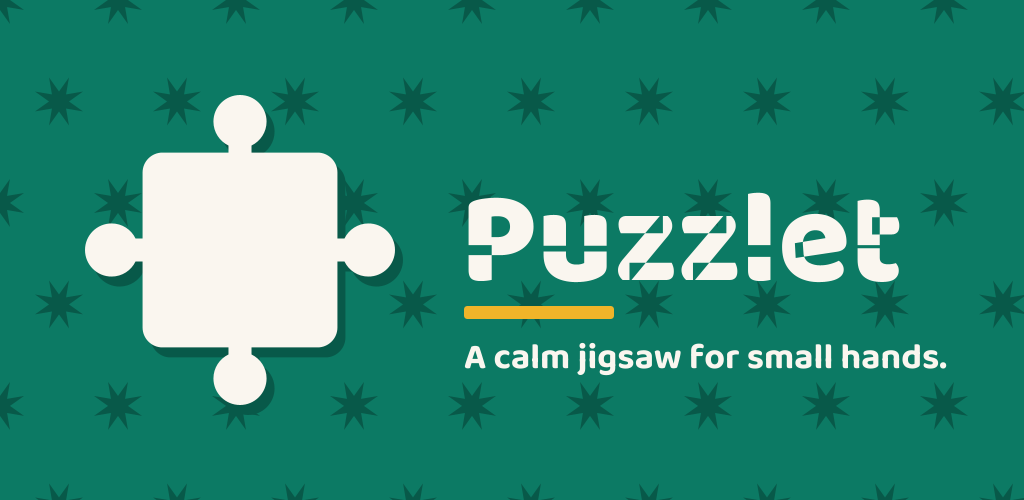
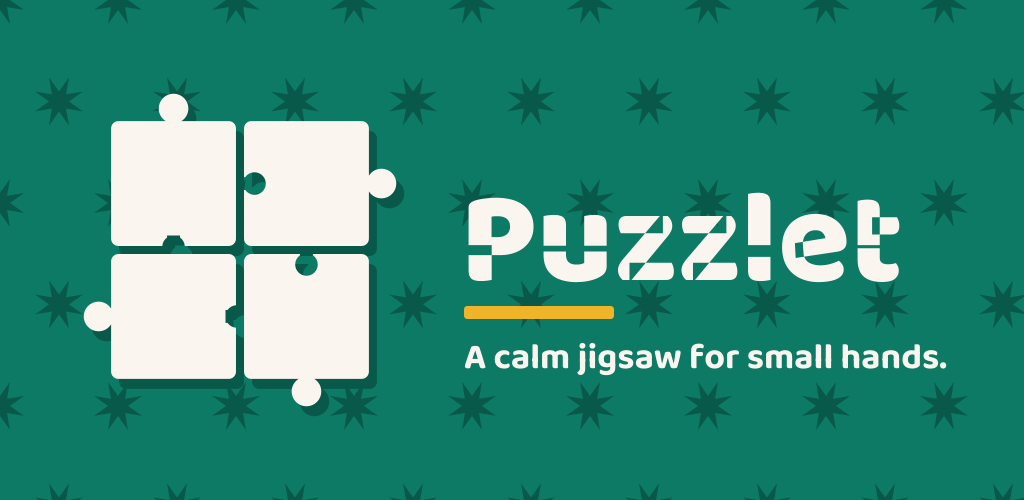
The mark: four joined pieces with seams, heads outward, cuts in the middle
The owner's refined design: the square is a 2x2 of real jigsaw pieces in
a pinwheel, each with its head reaching outward and its cut opening on
the inner seam, so four notches sit in the middle, waiting for the next
pieces. Thin seams show the square is four. Probes in MakeIconsTest
verify heads, cuts, seams and bodies through the piece transform;
checkIcons pins the regenerated set.

Changed region(s): [[0.0625, 0.18, 0.4062, 0.84]]

diff --git a/tools/src/main/kotlin/io/github/muntasimulhaque/puzzlet/tools/MakeIcons.kt b/tools/src/main/kotlin/io/github/muntasimulhaque/puzzlet/tools/MakeIcons.kt
@@ -54,35 +54,101 @@ object IconDesign {
 }
 
 /**
- * The friendship piece, in a unit box centred at (0.5, 0.5): a rounded
- * square body with four identical necked knobs, one per side, reaching
- * outward. The piece spans 0.70 of the box, knob tip to knob tip.
+ * The friendship square (the owner's design): a 2 x 2 of four jigsaw
+ * pieces, joined. Each piece is a real piece, oriented in a pinwheel: its
+ * head reaches outward (top, right, bottom, left: the four arms) and its
+ * cut opens on the inner seam, so four notches sit in the middle of the
+ * square, waiting for the next pieces to snap in. Thin seams show that the
+ * square is four pieces; the outer silhouette stays the calm square with
+ * four arms. The piece spans 0.962 of the unit box.
  */
-fun brandPiece(): Area {
-    val body = Area(RoundRectangle2D.Double(0.28, 0.28, 0.44, 0.44, 0.09, 0.09))
-    // Each knob: a neck crossing the body edge plus a round head beyond it.
-    // Top (bump up), right, bottom, left: the same four arms.
-    body.add(Area(Rectangle2D.Double(0.474, 0.18, 0.052, 0.12)))
-    body.add(Area(Ellipse2D.Double(0.44, 0.15, 0.12, 0.12)))
-    body.add(Area(Rectangle2D.Double(0.70, 0.474, 0.12, 0.052)))
-    body.add(Area(Ellipse2D.Double(0.73, 0.44, 0.12, 0.12)))
-    body.add(Area(Rectangle2D.Double(0.474, 0.70, 0.052, 0.12)))
-    body.add(Area(Ellipse2D.Double(0.44, 0.73, 0.12, 0.12)))
-    body.add(Area(Rectangle2D.Double(0.18, 0.474, 0.12, 0.052)))
-    body.add(Area(Ellipse2D.Double(0.15, 0.44, 0.12, 0.12)))
+enum class Side { TOP, RIGHT, BOTTOM, LEFT }
+
+internal const val BRAND_SPAN = 0.962
+
+private fun addKnob(body: Area, mx: Double, my: Double, side: Side) {
+    when (side) {
+        Side.TOP -> {
+            body.add(Area(Rectangle2D.Double(mx - 0.02, my - 0.055, 0.04, 0.065)))
+            body.add(Area(Ellipse2D.Double(mx - 0.046, my - 0.085, 0.092, 0.092)))
+        }
+        Side.BOTTOM -> {
+            body.add(Area(Rectangle2D.Double(mx - 0.02, my - 0.01, 0.04, 0.065)))
+            body.add(Area(Ellipse2D.Double(mx - 0.046, my - 0.007, 0.092, 0.092)))
+        }
+        Side.LEFT -> {
+            body.add(Area(Rectangle2D.Double(mx - 0.055, my - 0.02, 0.065, 0.04)))
+            body.add(Area(Ellipse2D.Double(mx - 0.085, my - 0.046, 0.092, 0.092)))
+        }
+        Side.RIGHT -> {
+            body.add(Area(Rectangle2D.Double(mx - 0.01, my - 0.02, 0.065, 0.04)))
+            body.add(Area(Ellipse2D.Double(mx - 0.007, my - 0.046, 0.092, 0.092)))
+        }
+    }
+}
+
+private fun addCut(body: Area, mx: Double, my: Double, side: Side) {
+    // The blank: a necked cut opening on the edge and biting inward.
+    when (side) {
+        Side.TOP -> {
+            body.subtract(Area(Rectangle2D.Double(mx - 0.02, my - 0.0275, 0.04, 0.06)))
+            body.subtract(Area(Ellipse2D.Double(mx - 0.035, my - 0.0025, 0.07, 0.07)))
+        }
+        Side.BOTTOM -> {
+            body.subtract(Area(Rectangle2D.Double(mx - 0.02, my - 0.0325, 0.04, 0.06)))
+            body.subtract(Area(Ellipse2D.Double(mx - 0.035, my - 0.0325, 0.07, 0.07)))
+        }
+        Side.LEFT -> {
+            body.subtract(Area(Rectangle2D.Double(mx - 0.0275, my - 0.02, 0.06, 0.04)))
+            body.subtract(Area(Ellipse2D.Double(mx - 0.0025, my - 0.035, 0.07, 0.07)))
+        }
+        Side.RIGHT -> {
+            body.subtract(Area(Rectangle2D.Double(mx - 0.0325, my - 0.02, 0.06, 0.04)))
+            body.subtract(Area(Ellipse2D.Double(mx - 0.0325, my - 0.035, 0.07, 0.07)))
+        }
+    }
+}
+
+/**
+ * One joined piece: a quadrant of the square with rounded corners, a knob
+ * reaching outward on [knob] and a cut biting inward on [notch].
+ */
+fun brandQuadrant(x0: Double, y0: Double, x1: Double, y1: Double, knob: Side, notch: Side): Area {
+    val body = Area(RoundRectangle2D.Double(x0, y0, x1 - x0, y1 - y0, 0.045, 0.045))
+    val knobMid = if (knob == Side.TOP || knob == Side.BOTTOM) (x0 + x1) / 2 else (y0 + y1) / 2
+    val notchMid = if (notch == Side.TOP || notch == Side.BOTTOM) (x0 + x1) / 2 else (y0 + y1) / 2
+    val edge = if (knob == Side.TOP || knob == Side.BOTTOM) (if (knob == Side.TOP) y0 else y1) else (if (knob == Side.LEFT) x0 else x1)
+    when (knob) {
+        Side.TOP -> addKnob(body, knobMid, y0, Side.TOP)
+        Side.BOTTOM -> addKnob(body, knobMid, y1, Side.BOTTOM)
+        Side.LEFT -> addKnob(body, x0, knobMid, Side.LEFT)
+        Side.RIGHT -> addKnob(body, x1, knobMid, Side.RIGHT)
+    }
+    when (notch) {
+        Side.TOP -> addCut(body, notchMid, y0, Side.TOP)
+        Side.BOTTOM -> addCut(body, notchMid, y1, Side.BOTTOM)
+        Side.LEFT -> addCut(body, x0, notchMid, Side.LEFT)
+        Side.RIGHT -> addCut(body, x1, notchMid, Side.RIGHT)
+    }
     return body
 }
 
-internal const val BRAND_SPAN = 0.70
-
-/** Draw the piece scaled to [span], centred at (cx, cy), in [argb]. */
+/**
+ * The whole mark, drawn into [g]: four joined pieces in a pinwheel. The
+ * piece spans 0.962 of the unit box; [span] is that span on the target.
+ */
 fun paintBrandPiece(g: Graphics2D, cx: Double, cy: Double, span: Double, argb: Int) {
-    val piece = brandPiece()
     val scale = span / BRAND_SPAN
-    g.transform(AffineTransform(scale, 0.0, 0.0, scale, cx - 0.5 * scale, cy - 0.5 * scale))
+    val ox = cx - 0.5 * scale
+    val oy = cy - 0.5 * scale
+    g.transform(AffineTransform(scale, 0.0, 0.0, scale, ox, oy))
     g.color = Color(argb, true)
-    g.fill(piece)
-    g.transform(AffineTransform(1.0 / scale, 0.0, 0.0, 1.0 / scale, -(cx - 0.5 * scale), -(cy - 0.5 * scale)))
+    // Pinwheel: head outward, cut inward, a quarter turn per piece.
+    g.fill(brandQuadrant(0.10, 0.10, 0.4875, 0.4875, Side.TOP, Side.BOTTOM))
+    g.fill(brandQuadrant(0.5125, 0.10, 0.90, 0.4875, Side.RIGHT, Side.LEFT))
+    g.fill(brandQuadrant(0.5125, 0.5125, 0.90, 0.90, Side.BOTTOM, Side.TOP))
+    g.fill(brandQuadrant(0.10, 0.5125, 0.4875, 0.90, Side.LEFT, Side.RIGHT))
+    g.transform(AffineTransform(1.0 / scale, 0.0, 0.0, 1.0 / scale, -ox, -oy))
 }
 
 /** The legacy tile: teal rounded square, paper piece, for API 24-25 launchers. */

diff --git a/tools/src/test/kotlin/io/github/muntasimulhaque/puzzlet/tools/MakeIconsTest.kt b/tools/src/test/kotlin/io/github/muntasimulhaque/puzzlet/tools/MakeIconsTest.kt
@@ -30,47 +30,64 @@ class MakeIconsTest {
     }
 
     @Test
-    fun `legacy tile is teal with the paper piece at its heart`() {
+    fun `legacy tile is teal with four joined pieces on it`() {
         val icon = legacyIcon(192)
         // Outside the rounded corners: fully transparent.
         assertEquals(0, icon.getRGB(8, 8) ushr 24)
-        // Tile, above the piece: teal.
-        assertEquals(IconDesign.TEAL, icon.getRGB(96, 12))
-        // Body centre: paper.
-        assertEquals(IconDesign.PAPER, icon.getRGB(96, 96))
-        // The top arm's head: paper, where the design says it must be.
+        // Map piece-unit coordinates the way paintBrandPiece does: the piece
+        // occupies the centre span, not the whole canvas.
         val span = 192 * IconDesign.LEGACY_SPAN_FRACTION
-        val headDy = (0.29 * span / BRAND_SPAN).toInt()
-        assertEquals(IconDesign.PAPER, icon.getRGB(96, 96 - headDy))
+        val scale = span / BRAND_SPAN
+        val ox = 96.0 - scale / 2.0
+        fun P(u: Double, v: Double): Pair<Int, Int> =
+            Pair((ox + u * scale).toInt(), (ox + v * scale).toInt())
+        // The seam cross in the middle: the tile shows through.
+        val (sx, sy) = P(0.5, 0.5)
+        assertEquals(IconDesign.TEAL, icon.getRGB(sx, sy))
+        // A quadrant body: paper.
+        val (bx, by) = P(0.29375, 0.29375)
+        assertEquals(IconDesign.PAPER, icon.getRGB(bx, by))
+        // A knob head reaching outward: paper.
+        val (kx, ky) = P(0.29375, 0.065)
+        assertEquals(IconDesign.PAPER, icon.getRGB(kx, ky))
+        // A cut in the middle: the tile shows through the blank.
+        val (cx2, cy2) = P(0.29375, 0.470)
+        assertEquals(IconDesign.TEAL, icon.getRGB(cx2, cy2))
     }
 
     @Test
-    fun `the four arms reach the same distance in every direction`() {
-        // The owner's design is perfectly symmetric: probe all four knob
-        // heads and require the same colour, and require the diagonals
-        // between the arms to stay empty.
+    fun `the four cuts sit in the middle, one per piece, pinwheel-symmetric`() {
+        // Map piece-unit coordinates onto a rendered layer and probe all
+        // four cuts and all four heads: heads paper, cuts tile.
         val size = 432
         val image = BufferedImage(size, size, BufferedImage.TYPE_INT_ARGB)
         val g = image.createGraphics()
+        g.color = java.awt.Color(IconDesign.TEAL, true)
+        g.fillRect(0, 0, size, size)
         paintBrandPiece(g, size / 2.0, size / 2.0, size * 0.80, IconDesign.PAPER)
         g.dispose()
 
-        val c = size / 2.0
-        val head = 0.29 / BRAND_SPAN * (size * 0.80)
-        val probes = listOf(
-            (c + head).toInt() to c.toInt(),   // right
-            c.toInt() to (c - head).toInt(),   // top
-            (c - head).toInt() to c.toInt(),   // left
-            c.toInt() to (c + head).toInt(),   // bottom
+        val scale = (size * 0.80) / BRAND_SPAN
+        val ox = size / 2.0 - scale / 2.0
+        fun P(u: Double, v: Double): Pair<Int, Int> =
+            Pair((ox + u * scale).toInt(), (ox + v * scale).toInt())
+
+        val cuts = listOf(
+            P(0.29375, 0.470), P(0.530, 0.29375), P(0.70625, 0.530), P(0.470, 0.70625),
         )
-        for ((x, y) in probes) {
-            assertEquals("arm at ($x, $y) is not paper", IconDesign.PAPER, image.getRGB(x, y))
+        for ((x, y) in cuts) {
+            assertEquals("the cut at ($x, $y) is not punched through", IconDesign.TEAL, image.getRGB(x, y))
         }
-        val diagonal = (c - head).toInt()
-        assertTrue(
-            "the diagonal between arms should be empty",
-            image.getRGB(diagonal, diagonal) ushr 24 == 0,
+        val heads = listOf(
+            P(0.29375, 0.065), P(0.935, 0.29375), P(0.70625, 0.935), P(0.065, 0.70625),
         )
+        for ((x, y) in heads) {
+            assertEquals("the head at ($x, $y) is not paper", IconDesign.PAPER, image.getRGB(x, y))
+        }
+        // Between the cuts, the pieces themselves are still paper.
+        for ((x, y) in listOf(P(0.20, 0.20), P(0.80, 0.80))) {
+            assertEquals(IconDesign.PAPER, image.getRGB(x, y))
+        }
     }
 
     @Test
@@ -78,10 +95,20 @@ class MakeIconsTest {
         val layer = adaptiveLayer(432, IconDesign.PAPER)
         // Far corner: untouched canvas.
         assertEquals(0, layer.getRGB(20, 20) ushr 24)
-        // Centre: the piece body, in the requested colour.
-        assertEquals(IconDesign.PAPER, layer.getRGB(216, 216))
+        // Map piece-unit coordinates the way paintBrandPiece does.
+        val span = 432 * IconDesign.ADAPTIVE_SPAN_DP / IconDesign.ADAPTIVE_DP
+        val scale = span / BRAND_SPAN
+        val ox = 216.0 - scale / 2.0
+        fun P(u: Double, v: Double): Pair<Int, Int> =
+            Pair((ox + u * scale).toInt(), (ox + v * scale).toInt())
+        // The seam cross: the canvas shows through where four pieces meet.
+        val (sx, sy) = P(0.5, 0.5)
+        assertEquals(0, layer.getRGB(sx, sy) ushr 24)
+        // A quadrant body: paper.
+        val (bx, by) = P(0.29375, 0.29375)
+        assertEquals(IconDesign.PAPER, layer.getRGB(bx, by))
         // The monochrome sibling renders the same geometry in white.
         val mono = adaptiveLayer(432, IconDesign.WHITE)
-        assertEquals(IconDesign.WHITE, mono.getRGB(216, 216))
+        assertEquals(IconDesign.WHITE, mono.getRGB(bx, by))
     }
 }

diff --git a/AGENTS.md b/AGENTS.md
@@ -307,19 +307,26 @@ a stale build can never sit there waiting to be uploaded twice.
   release of versionCode 1, versionName 0.1; its notes live in the
   submission guide. Play's license-testing list keeps paid-app testers
   from being charged.
-- D-030 (2026-09-05): The mark is REDESIGNED, superseding D-008's glyph.
-  The owner's design, after the first mark read as ambiguous at a glance:
-  ONE jigsaw piece reaching out in all four directions, four identical
-  arms, perfectly symmetric. Symmetry kills the double meaning outright,
-  the silhouette is the classic puzzle read, and the owner named the
-  meaning: friendship. Uniqueness findings recorded: the generic
-  four-knob piece cannot be owned (thousands of stock icons exist; ours is
-  drawn from code), the puzzle emoji differs (two tabs, two blanks), and
-  the single-piece autism-awareness association was surfaced to the owner
-  and accepted as weak for a puzzle game (two-piece mid-snap remains the
-  fallback if it ever needs breaking). One painter, paintBrandPiece,
-  feeds launcher, monochrome, legacy, store icon, feature graphic, and
-  the in-app mark.
+- D-030 (2026-09-05, revised same day): The mark is REDESIGNED,
+  superseding D-008's glyph. The owner's design, after the first mark read
+  as ambiguous at a glance: the square is FOUR jigsaw pieces, joined. Each
+  piece is a real piece oriented in a pinwheel: its head reaches outward
+  (top, right, bottom, left: the four arms) and its cut opens on the inner
+  seam, so four notches sit in the middle of the square, waiting for the
+  next pieces. Thin seams show the square is four pieces; the owner's
+  instruction was to keep the arms and show their holes. Symmetry plus the
+  seams kill the double meaning outright. Uniqueness findings recorded:
+  the generic four-knob piece cannot be owned (thousands of stock icons
+  exist; ours is drawn from code), the puzzle emoji differs (two tabs,
+  two blanks), and the single-piece autism-awareness association was
+  surfaced to the owner and accepted as weak for a puzzle game (the
+  mid-snap two-piece story remains the fallback if it ever needs
+  breaking). One painter, paintBrandPiece, feeds launcher, monochrome,
+  legacy, store icon, feature graphic, and the in-app mark. The geometry
+  is verified by pixel probes in MakeIconsTest (heads, cuts, seams,
+  bodies), after two rounds of probe bugs taught the same lesson twice:
+  ALWAYS map piece-unit coordinates through the piece's span and offset
+  before probing pixels.
 - D-031 (2026-09-05): The game must make the child think (the original
   goal, audited). Two guarantees landed: no piece ever starts within snap
   tolerance of its own slot (the scatter keeps every piece away from home;
